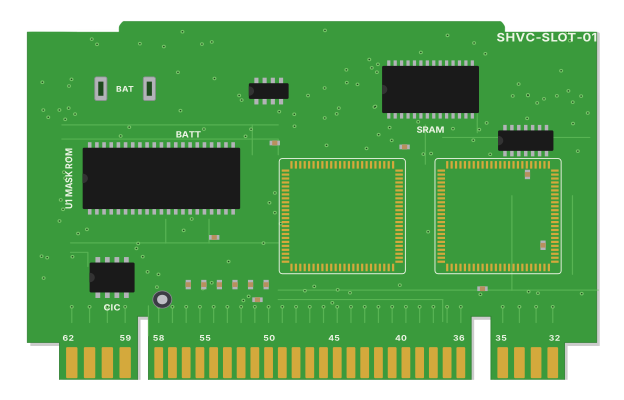
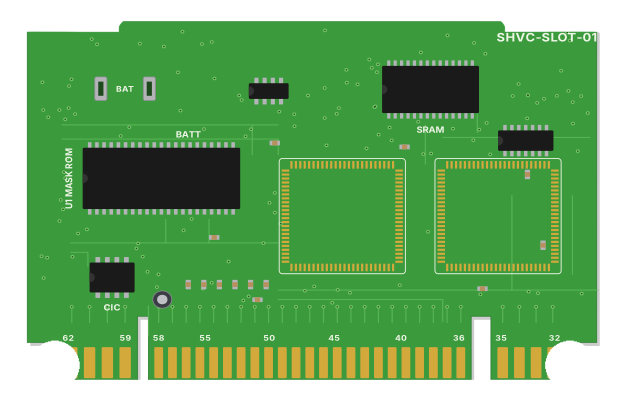
Keep the NES and Super Nintendo side screw posts in sight
The grown board is notched round the shell's side screw posts, and the NES
core footprints stay clear of them.

Changed region(s): [[0.8526, 0.84, 0.9439, 0.96], [0.0609, 0.84, 0.1522, 0.96]]

diff --git a/crates/slot-ui/src/home_art.rs b/crates/slot-ui/src/home_art.rs
@@ -75,8 +75,8 @@ macro_rules! art {
 // Printed by nes-megadrive/export_app.py.
 static ARTS: [MouldArt; 9] = [
     art!("nes", 352, (126, 0, 145, 239),
-        [(32.2, 236.5, 108.3, 48.0), (171.5, 236.5, 108.3, 48.0)],
-        (167.1, 101.4, 130.4, 40.7), [126, 126, 128], None),
+        [(47.9, 236.5, 94.6, 48.0), (169.5, 236.5, 94.6, 48.0)],
+        (165.7, 101.4, 113.9, 40.7), [126, 126, 128], None),
     art!("fc", 207, (22, 22, 269, 133),
         [(27.7, 98.3, 112.9, 54.9), (171.4, 98.3, 112.9, 54.9)],
         (69.3, 50.6, 140.2, 32.7), [196, 125, 8], None),
